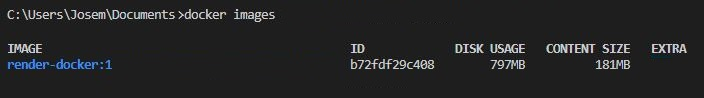
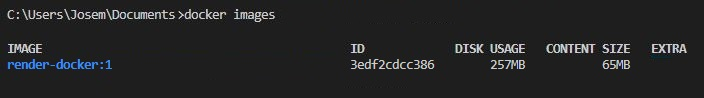
docs: update README for Docker deployment instructions

diff --git a/README.md b/README.md
@@ -1,134 +1,119 @@
-# 04 Manual Render Deploy
+# Despliegue en Render usando Docker
 
-In this example we are going to create a production server using Render.
+🔗 [Repositorio GitHub](https://github.com/josemi1189/mod8-render-docker)
 
-We will start from `03-github-branch`.
+🔗 [Despliegue en Render con Docker](https://mod8-render-docker.onrender.com)
 
-# Steps to build it
+1. Debemos generar los archivos de configuración para generar la imagen en **Docker Hub**. Se debe optimizar la imagen de forma que contenga solo los archivos necesarios.
 
-`npm install` to install previous sample packages:
+   `Dockerfile`:
 
-```bash
-npm install
-```
+   ```docker
+   # Crea fase base, genera carpeta contenedora e indica directorio de trabajo
+   FROM node:24-alpine AS base
+   RUN mkdir -p /usr/app
+   WORKDIR /usr/app
 
-[Render](https://render.com/) is a cloud provider that allows you to deploy different types of apps based on git repository changes.
+   # Copia ficheros dentro del directorio de trabajo establecido, instala dependencias y genera build
+   FROM base  AS front-build
+   COPY ./ ./
+   RUN npm install
+   RUN npm run build
 
-First, we need to prepare the final files that we want to deploy, let's restore the vite configuration:
+   # Copia los archivos necesarios para despliegue
+   FROM base AS release
+   COPY --from=front-build /usr/app/dist ./public
+   COPY ./server/package.json ./
+   COPY ./server/package-lock.json ./
+   COPY ./server/index.js ./
 
-_./vite.config.js_
+   # Instala dependencias omitiendo las de desarrollo
+   RUN npm ci --omit=dev
 
-```diff
-import { defineConfig, splitVendorChunkPlugin } from 'vite';
-import react from '@vitejs/plugin-react';
-import path from 'path';
+   CMD ["node", "index.js"]
+   ```
 
-export default defineConfig({
-- base: './',
-  envPrefix: 'PUBLIC_',
-  ...
+   `.dockerignore`: Debe incluir todo lo que no sea necesario subir a Docker. Si utilizamos .env.production no deberá incluirse para permitir su subida.
 
-```
+   ```
+   node_modules
+   dist
+   .github
+   .gitignore
+   .env.development
+   ```
 
-And restore router configuration:
+2. Generar imagen del repositorio con la versión que corresponda:
 
-_./src/core/router/router.ts_
+   `docker build -t <nombre-app>:<número de versión> .`
 
-```diff
-- import { createRouter, createHashHistory } from '@tanstack/react-router';
-+ import { createRouter } from '@tanstack/react-router';
-// The route-tree file is generated automatically. Do not modify this file manually.
-import { routeTree } from './route-tree';
+   ```
+   docker build -t render-docker:1 .
+   ```
 
-- const history = createHashHistory();
+   **NOTA:** El comando incluye un punto . al final necesario que indica la ruta o directorio donde se encuentra el archivo Dockerfile y permite indicar directorio al que le queremos dar acceso.
 
-export const router = createRouter({
-  routeTree,
-- history,
-});
-...
+3. Una vez ejecutado el comando, podemos comprobar si la imagen se ha compilado correctamente con el comando `docker images`:
 
-```
+   ![Crea imagen de Docker](docs/create-image.jpg)
 
-Run build:
+4. Crear contenedor Docker y confirmar que la aplicación carga correctamente.
 
-```bash
-npm run build
+   `docker run --name <nombre-contenedor> -p <puerto local:puerto del proceso del contenedor> - e PORT=<puerto> <nombre-imagen>:<versión>`
 
-```
+   ```
+   docker run --name render-docker-container -p 8083:8083 render-docker:1
+   ```
 
-Let's copy the `dist` folder content to `server/public` folder.
+   🔗 [http://localhost:8083](http://localhost:8083)
 
-_./server_
+   ![Crea contenedor de Docker](docs/contenedor.jpg)
 
-```
-|server/
-|-- public/
-|----- assets/
-|----- index.html
-|-- index.js
-|-- package-lock.json
-|-- package.json
-```
+   > Permite generar tantos contenedores como sean necesarios utilizando distinto nombre de contenedor y distinto puerto.
 
-Let's create a new empty repository:
+   ```
+   docker run --name render-docker-container2 -p 8083:8083 render-docker:1
+   ```
 
-![01-create-repo](./readme-resources/01-create-repo.png)
+5. Publicar imagen en Dockerhub.
+   1. Es necesario estar logueado en docker para tener acceso mediante línea de comandos. Podemos loguearnos o confirmar que lo estamos ejecutando:
 
-Clone repository:
+      ```
+      docker login
+      ```
 
-```bash
-git clone git@github.com<your-url>.git .
+   2. Para subir la imagen a DockerHub, el nombre debe incluir nuestro nombre de usuario. Si en local hemos creado la imagen sin utilizar formato `usuario-docker/nombre-imagen`, es posible asignarle un alias para que nos permita publicarla.
 
-```
+      `docker tag \<imagen-local:versión> \<usuario>/\<nombre-imagen:version>`
 
-> Note: you can use a dot at the end of the command to clone the repository in the current folder.
+      ```
+      docker tag render-docker:1 josemi1189/render-docker:1
+      ```
 
-Let's copy the `server` files into the deploy repository root path.
+   3. Subir imagen a Docker Hub:
 
-_Root path of the deploy repository_
+      `docker push \<alias-imagen-creada>`
 
-```
-|-- public/
-|----- assets/
-|----- index.html
-|-- index.js
-|-- package-lock.json
-|-- package.json
+      ```
+      docker push josemi1189/render-docker:1
+      ```
 
-```
+      ![Imagen versión 1 en Docker Hub](docs/imagen-dockerhub.jpg)
 
-Commit and push:
+   4. De esta forma se compila con la arquitectura del sistema de nuestro equipo. Para compilar con distintas arquitecturas podemos ejecutar el comando:
 
-```bash
-git add .
-git commit -m "initial commit"
-git push
+      `docker buildx build --platform linux/amd64,linux/arm64 -t <nombre_repositorio_dockerHub:versión> <--push (opcional)> .`
 
-```
+      > --push: Publica la imagen multi-arquitectura en Docker Hub.
 
-Create a new render app:
+      ```
+      docker buildx build --platform linux/amd64,linux/arm64 -t josemi1189/render-docker:2 --push .
+      ```
 
-![02-create-render-app](./readme-resources/02-create-render-app.png)
+      ![Imagen creada con multi-arquitectura](docs/multi-arquitectura.jpg)
 
-![03-connect-github](./readme-resources/03-connect-github.png)
+6. Para publicar en Render, debemos generar un **Web Service** y enlazar con nuestro repositorio de GitHub con la diferencia de que al elegir el lenguaje utilizado deberá estar seleccionado **Docker**.
 
-Configure web service:
+   ![Configuración de Render](docs/despliegue-render.jpg)
 
-![04-configure-web-service](./readme-resources/04-configure-web-service.png)
-
-![05-configure-runtime](./readme-resources/05-configure-runtime.png)
-
-Select `Free plan` and clicks on `Deploy Web Service` button.
-
-After the successful deploy, open `https://<app-name>.onrender.com`.
-
-# About Basefactor + Lemoncode
-
-We are an innovating team of Javascript experts, passionate about turning your ideas into robust products.
-
-[Basefactor, consultancy by Lemoncode](http://www.basefactor.com) provides consultancy and coaching services.
-
-[Lemoncode](http://lemoncode.net/services/en/#en-home) provides training services.
-
-For the LATAM/Spanish audience we are running an Online Front End Master degree, more info: http://lemoncode.net/master-frontend
+   ![Despliegue en Render](docs/deploy.jpg)
